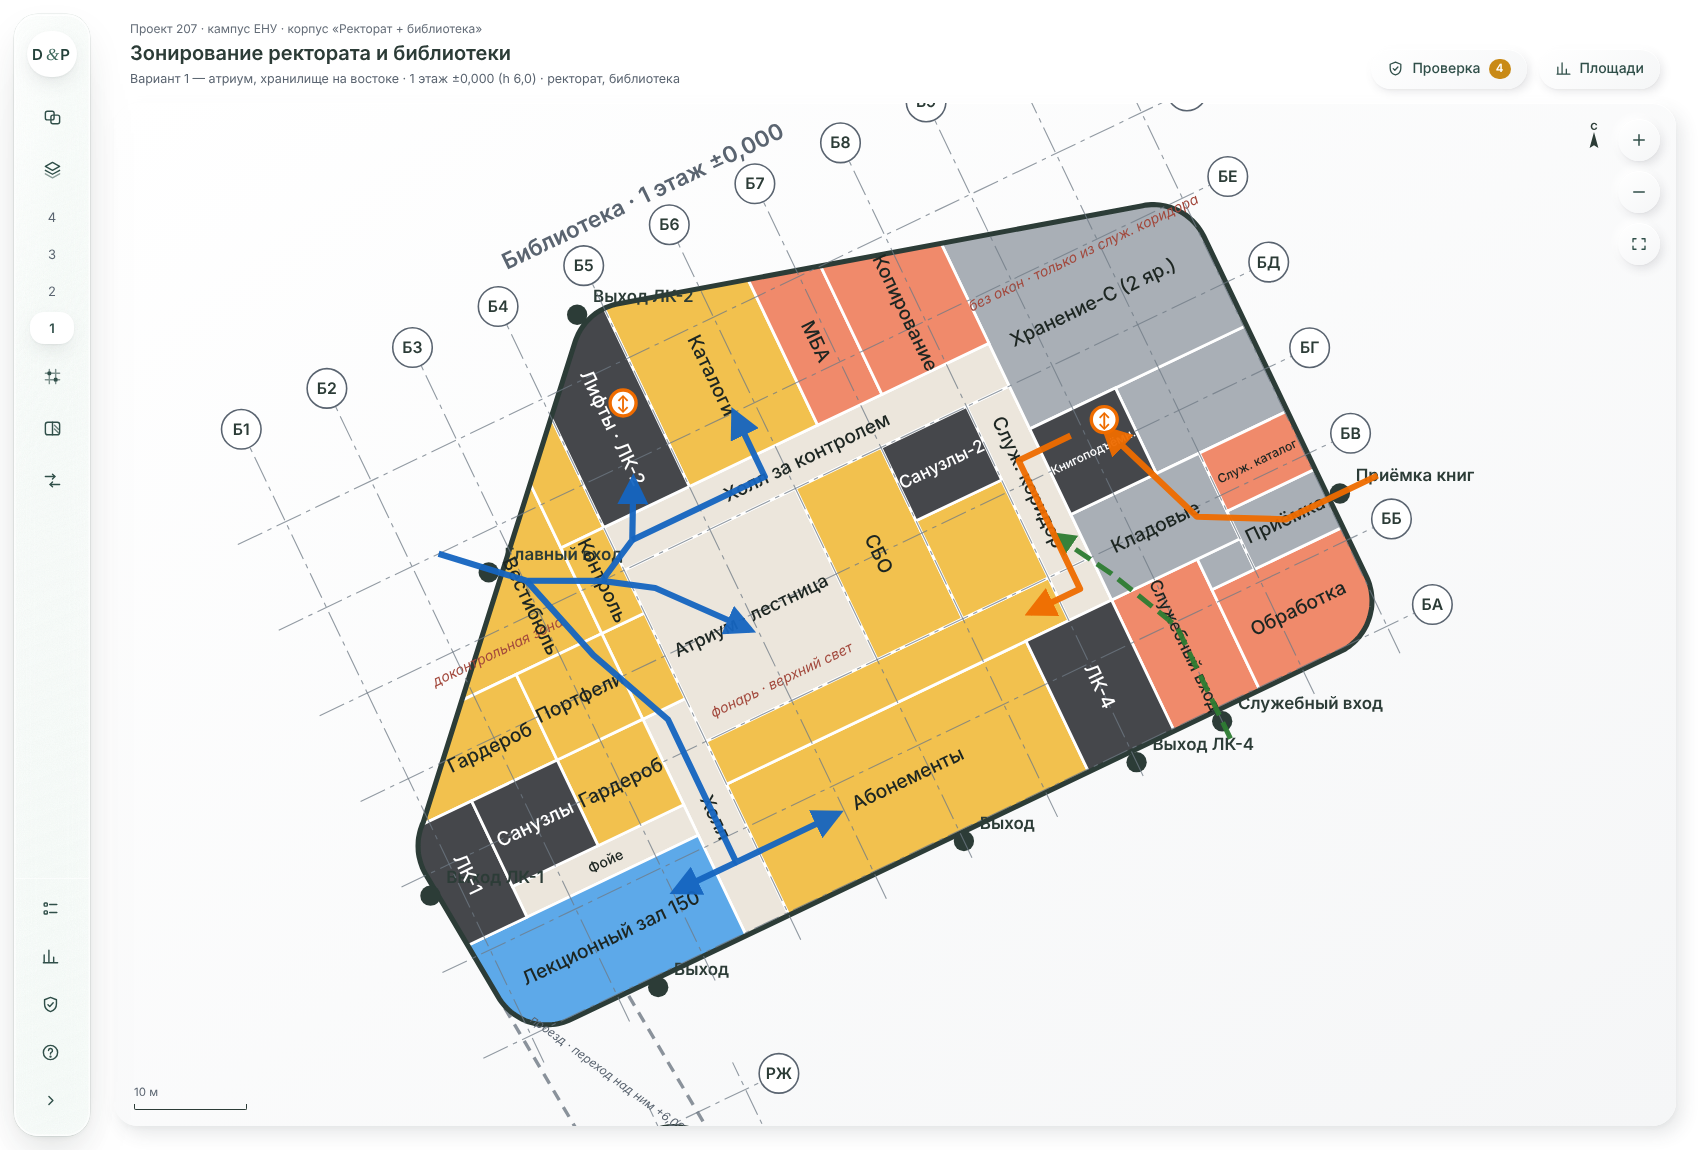
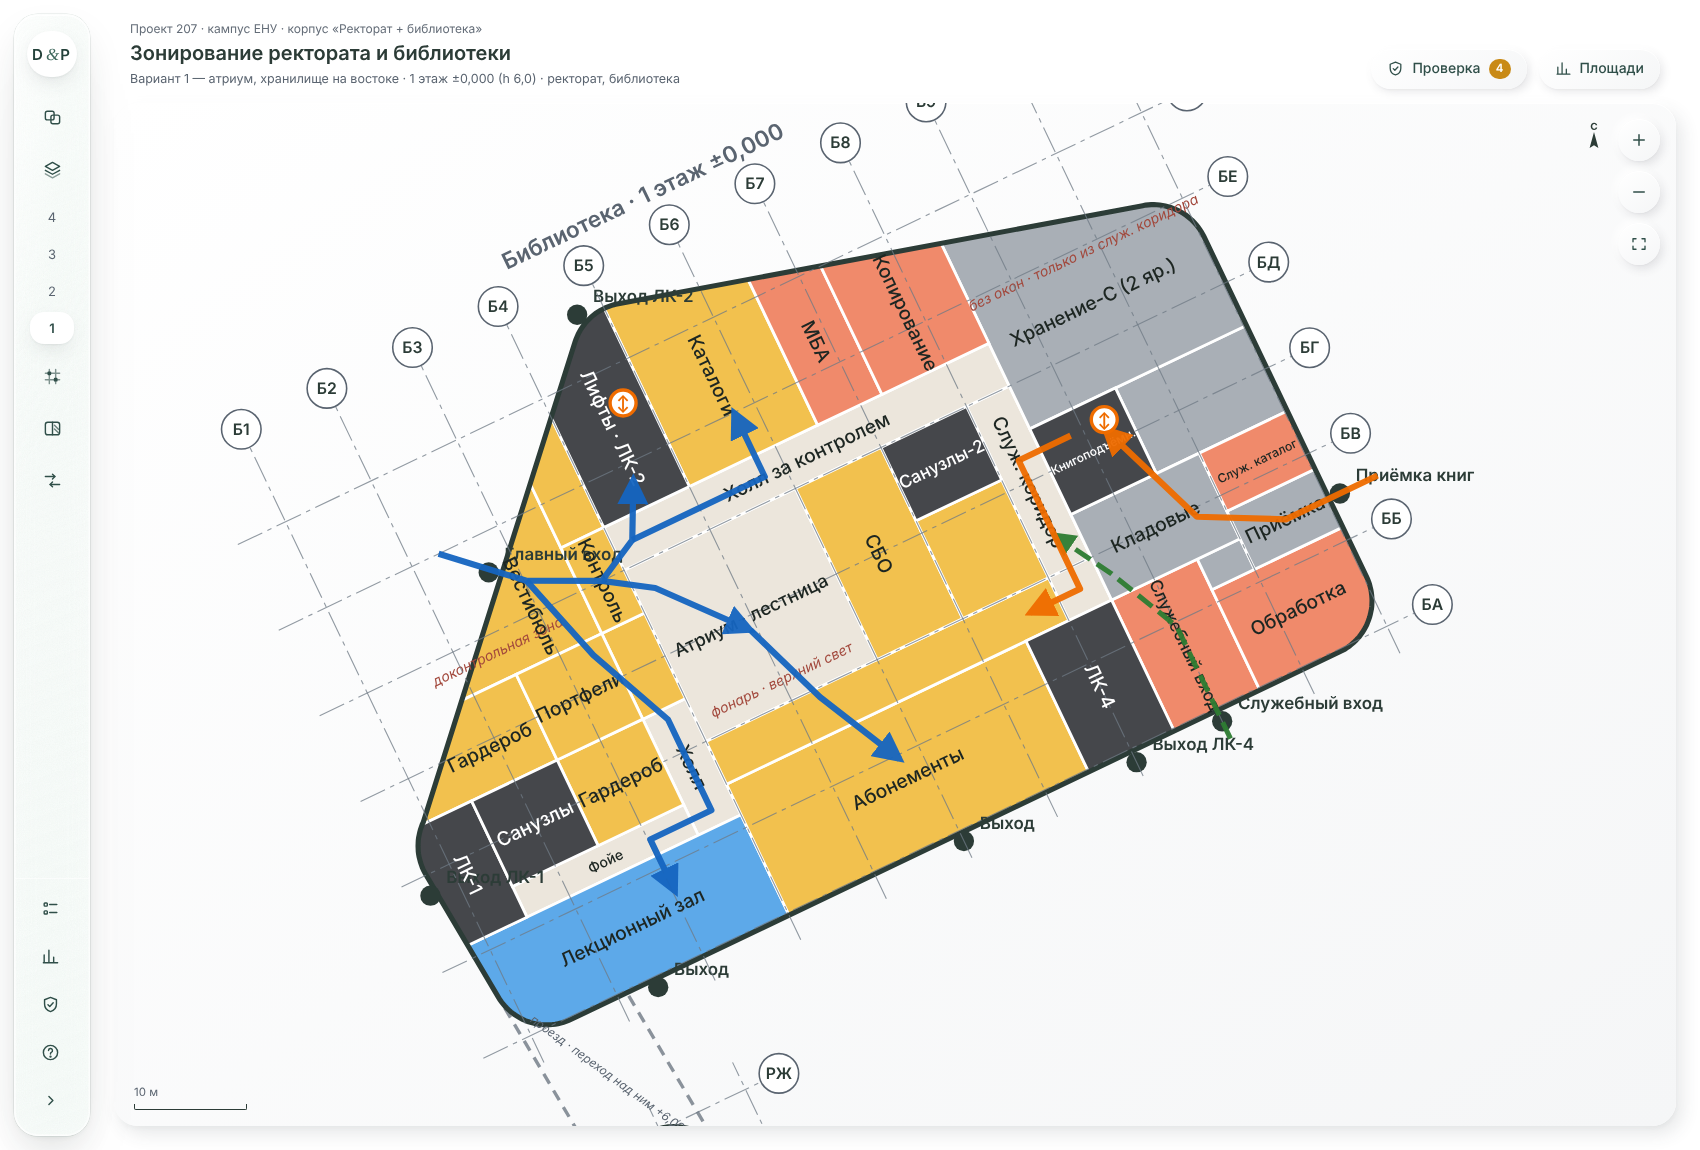
Библиотека: вход в абонемент из атриума, лекционный зал до оси Б4, окно «Площади помещений» вместо легенды
Claude-Session: https://claude.ai/code/session_01PBUMDRyqQNphWJTD6zJTqL

diff --git a/LIB_Zoning_REPORT.md b/LIB_Zoning_REPORT.md
@@ -1,7 +1,7 @@
 # Библиотека ЕНУ — отчёт по зонированию (вариант 1: атриум, хранилище на востоке)
 
 **Что это:** отчёт к `ADM_LIB_Zoning.html`: что решено в зонировании библиотеки, на какие нормы оно опирается, площади помещений, расчёт людей и эвакуации, что не поместилось, открытые вопросы.
-**Когда использовать:** читать вместе с интерактивным планом (кнопки «Проверка» и «Площади»), прежде чем согласовывать с архитектором.
+**Когда использовать:** читать вместе с интерактивным планом (кнопки «Проверка», «Площади» и окно «Площади помещений» — там список помещений этажа и сводка по этажам), прежде чем согласовывать с архитектором.
 **Чем создано:** Claude Code, 2026-10-30, по заданию `ADM_LIB_Zoning_BRIEF.md` и эскизам архитектора. Нормы: табл. 26 (Ф = 1 800 000, М = 1 800), пособие к СНиП 2.08.02-89 п. 3.98–3.117, СН РК 3.02-07-2014 (пп. 5.3.1.29–30, 5.3.2.1, 5.3.2.10, 5.3.2.15, 5.4.6.4–5), СН РК 3.02-08-2013, фрагменты норм от архитектора (пп. 4.2.1.1, 4.2.1.68–69, 4.2.2.30, 4.2.2.33, 4.3.3.1; табл. 1, 8, 9).
 
 Заполнена только **библиотека** — она в нашей зоне ответственности. Ректорат и переход пустые, поэтому проверка даёт 4 предупреждения «не заполнен». Ошибок нет. На 2 этаже в ЮЗ углу оставлен холл под будущий переход (правило 6).
@@ -29,7 +29,7 @@
 
 | Этаж | Что размещено |
 |---|---|
-| **1** (h 6,0) | **Доконтрольная зона** (п. 3.108): главный вход посередине ЗСЗ-фасада, вестибюль (справочное бюро, запись, киоск, выставки, репрография), гардероб, портфели, доконтрольный холл, абонементы вдоль ЮЮВ-фасада, лекционный зал на 150 мест (п. 3.103). **Контроль** — турникеты в вестибюле. **За контролем:** дно атриума с парадной лестницей, холл к лифтам, СБО, каталоги, МБА, лаборатория копирования. **Производственная зона** (п. 3.109): служебный вход с гардеробом, психологической разгрузкой и приёмом пищи (СН РК 3.02-08 п. 5.4.4.23, 5.4.4.29), комплектование и обработка, приёмка с ВСВ-фасада, служебный каталог, кладовые. Хранение — северный отсек, стеллажи в два яруса (п. 3.111). |
+| **1** (h 6,0) | **Доконтрольная зона** (п. 3.108): главный вход посередине ЗСЗ-фасада, вестибюль (справочное бюро, запись, киоск, выставки, репрография), гардероб, портфели, доконтрольный холл, **лекционный зал увеличен до оси Б4 — ≈ 256 м², ≈ 180 мест** (п. 3.103: не меньше 150). **Контроль** — турникеты в вестибюле. **За контролем:** дно атриума с парадной лестницей, **абонементы вдоль ЮЮВ-фасада с входом из атриума**, холл к лифтам, СБО, каталоги, МБА, лаборатория копирования. **Производственная зона** (п. 3.109): служебный вход с гардеробом, психологической разгрузкой и приёмом пищи (СН РК 3.02-08 п. 5.4.4.23, 5.4.4.29), комплектование и обработка, приёмка с ВСВ-фасада, служебный каталог, кладовые. Хранение — северный отсек, стеллажи в два яруса (п. 3.111). |
 | **2** | Учебное отделение (п. 3.106): 6 читальных залов (С, ЮЮВ), групповые, открытый доступ. Хранение — оба отсека. Холл перехода (резерв). |
 | **3** | Учебное и научное отделения: 2 учебных зала, 2 научных, зал ППС, справочно-реферативный, групповые, открытый доступ. Хранение — оба отсека. |
 | **4** | Научное отделение: залы по отраслям, индивидуальные кабины. Зал редких книг (С). Хранилище редких изданий — северный отсек за противопожарными стенами (СН РК п. 5.3.1.30). Аудиовизуальные залы. Хранение — южный отсек. |
@@ -42,7 +42,7 @@
 
 | Помещения | Норма на 1 чел. | 1 эт. | 2 эт. | 3 эт. | 4 эт. |
 |---|---|---:|---:|---:|---:|
-| Лекционный зал | 150 мест | 150 | — | — | — |
+| Лекционный зал | ≈ 180 мест | 180 | — | — | — |
 | Абонементы | 1,8 м² | 253 | — | — | — |
 | Каталоги, СБО | 3,5–4 м² | 100 | — | — | — |
 | Читальные залы учебного отд. | 2,4 м² | — | 332 | 153 | — |
@@ -51,7 +51,7 @@
 | Аудиовизуальные, редкие книги | 5 м² | — | — | — | 90 |
 | Открытый доступ | ≈ 10 м² (допущение) | — | 26 | 26 | 26 |
 | Персонал: выдача, хранилище, службы | 6 м² / по штату | 80 | 12 | 12 | 8 |
-| **Итого на этаже** | | **≈ 584** | **≈ 484** | **≈ 487** | **≈ 368** |
+| **Итого на этаже** | | **≈ 614** | **≈ 484** | **≈ 487** | **≈ 368** |
 
 С 1 этажа люди выходят прямо наружу: через главный вход, выходы из лекционного зала и абонемента, служебный вход и выходы ЛК-1, ЛК-2, ЛК-4. По лестницам эвакуируются только 2–4 этажи; самые нагруженные из них — **2 и 3 этажи, ≈ 485 человек**.
 
@@ -116,7 +116,7 @@
 | Помещение | 1 эт. | 2 эт. | 3 эт. | 4 эт. | Всего |
 |---|---:|---:|---:|---:|---:|
 | Вестибюль, гардероб, контроль | 356 | — | — | — | 356 |
-| Лекционный зал на 150 мест | 214 | — | — | — | 214 |
+| Лекционный зал (≈ 180 мест) | 256 | — | — | — | 256 |
 | Абонементы | 519 | — | — | — | 519 |
 | Каталоги и СБО | 423 | — | — | — | 423 |
 | Аванзалы (Ю, З, С) | — | 423 | 423 | 423 | 1 270 |
@@ -128,7 +128,7 @@
 | Закрытое книгохранилище | 432 | 878 | 878 | 446 | 2 634 |
 | Служебные (МБА, копирование, служебный вход, приёмка, обработка, служебный каталог, кладовые, портфели) | 719 | — | — | — | 719 |
 | Атриум | 282 | 282 | 282 | 282 | 1 129 |
-| Коридоры, холлы, служебный коридор | 387 | 265 | 134 | 134 | 919 |
+| Коридоры, холлы, служебный коридор | 345 | 265 | 134 | 134 | 877 |
 | Лестничные клетки, лифты, книгоподъёмники | 373 | 373 | 373 | 373 | 1 493 |
 | Санузлы | 131 | 131 | 131 | 131 | 524 |
 | **Итого** | **3 836** | **3 836** | **3 836** | **3 836** | **15 344** |
@@ -163,6 +163,8 @@
 3. **Пересчитать число мест.** ПЗ заказчика 7 400 м².
 
 ## 6. Открытые вопросы
+
+- **Абонемент за контролем.** Вход в абонемент — из атриума, по решению архитектора. П. 3.108 рекомендует абонементы до контроля: тогда книгу можно взять на дом, не проходя турникеты. Это отступление; пункт контроля должен пропускать читателей абонемента.
 
 - **Пропускная способность маршей.** 165 человек на 1 м марша взято из СНиП 2.08.02-89* — проверить по действующим нормам РК. От этого зависит ширина марша ЛК-2: 1,8 м.
 - **Запасной выход северного отсека хранилища** — через служебный коридор в две стороны. Согласовать.
